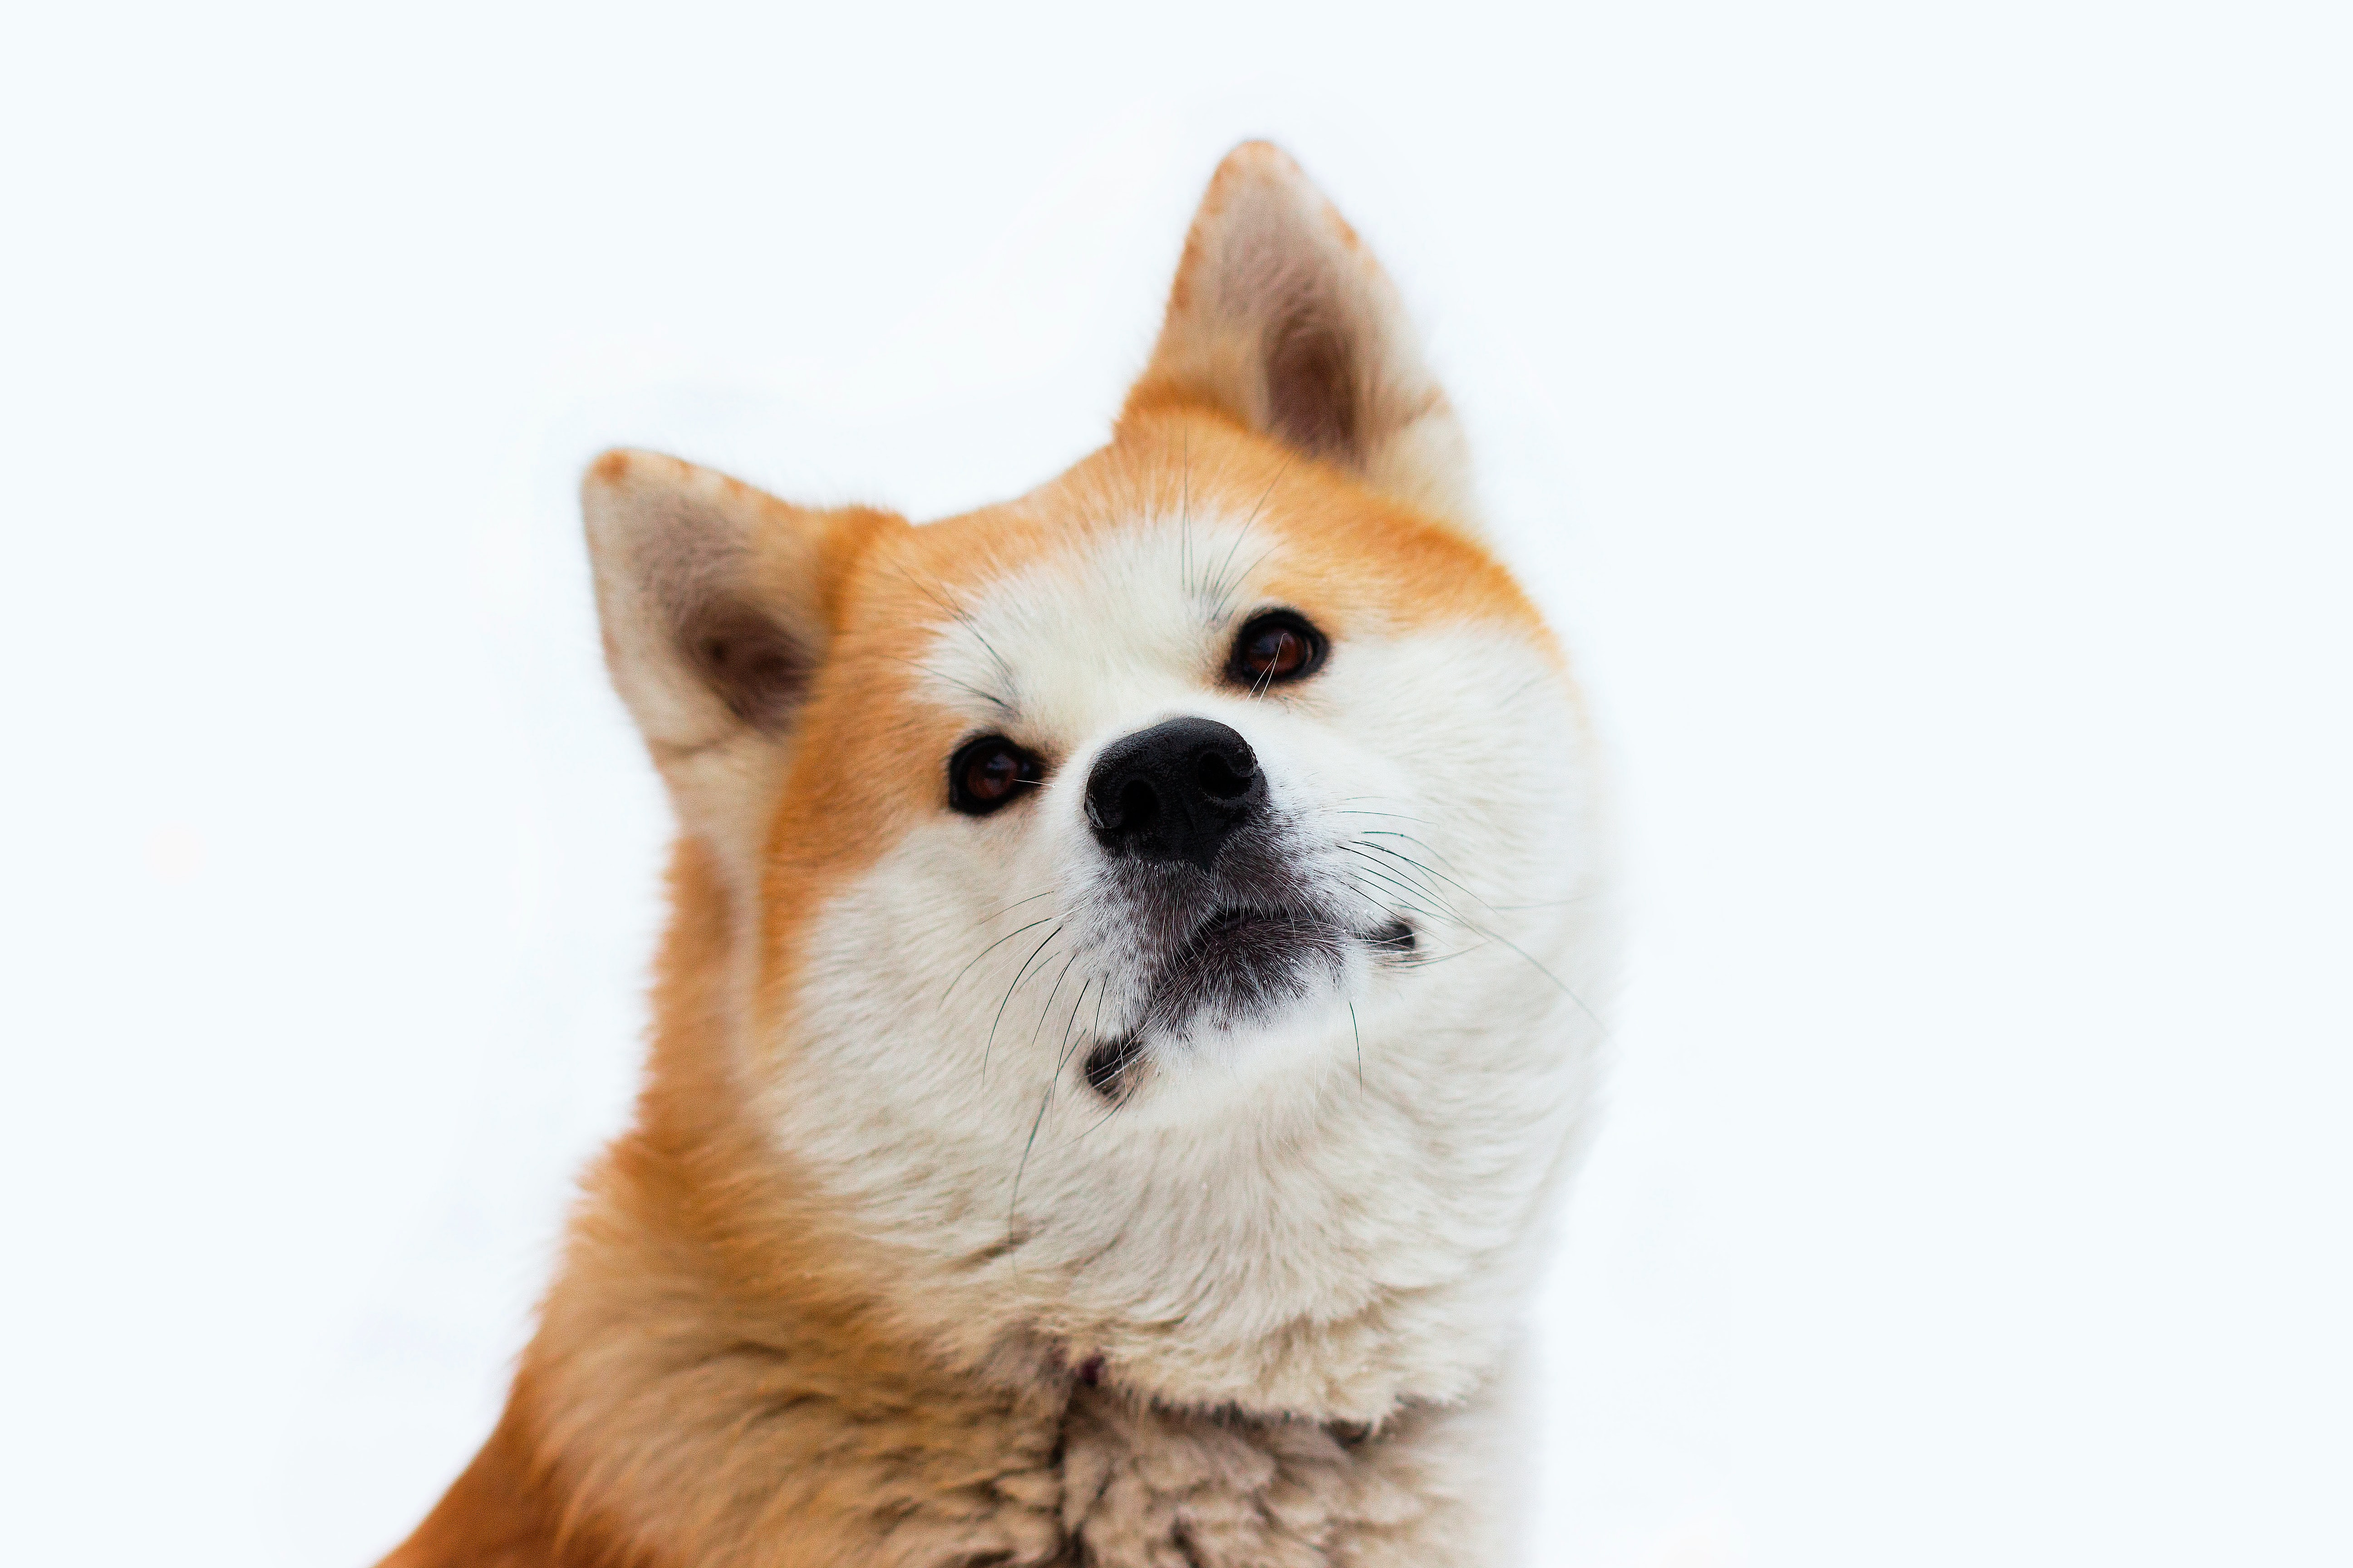
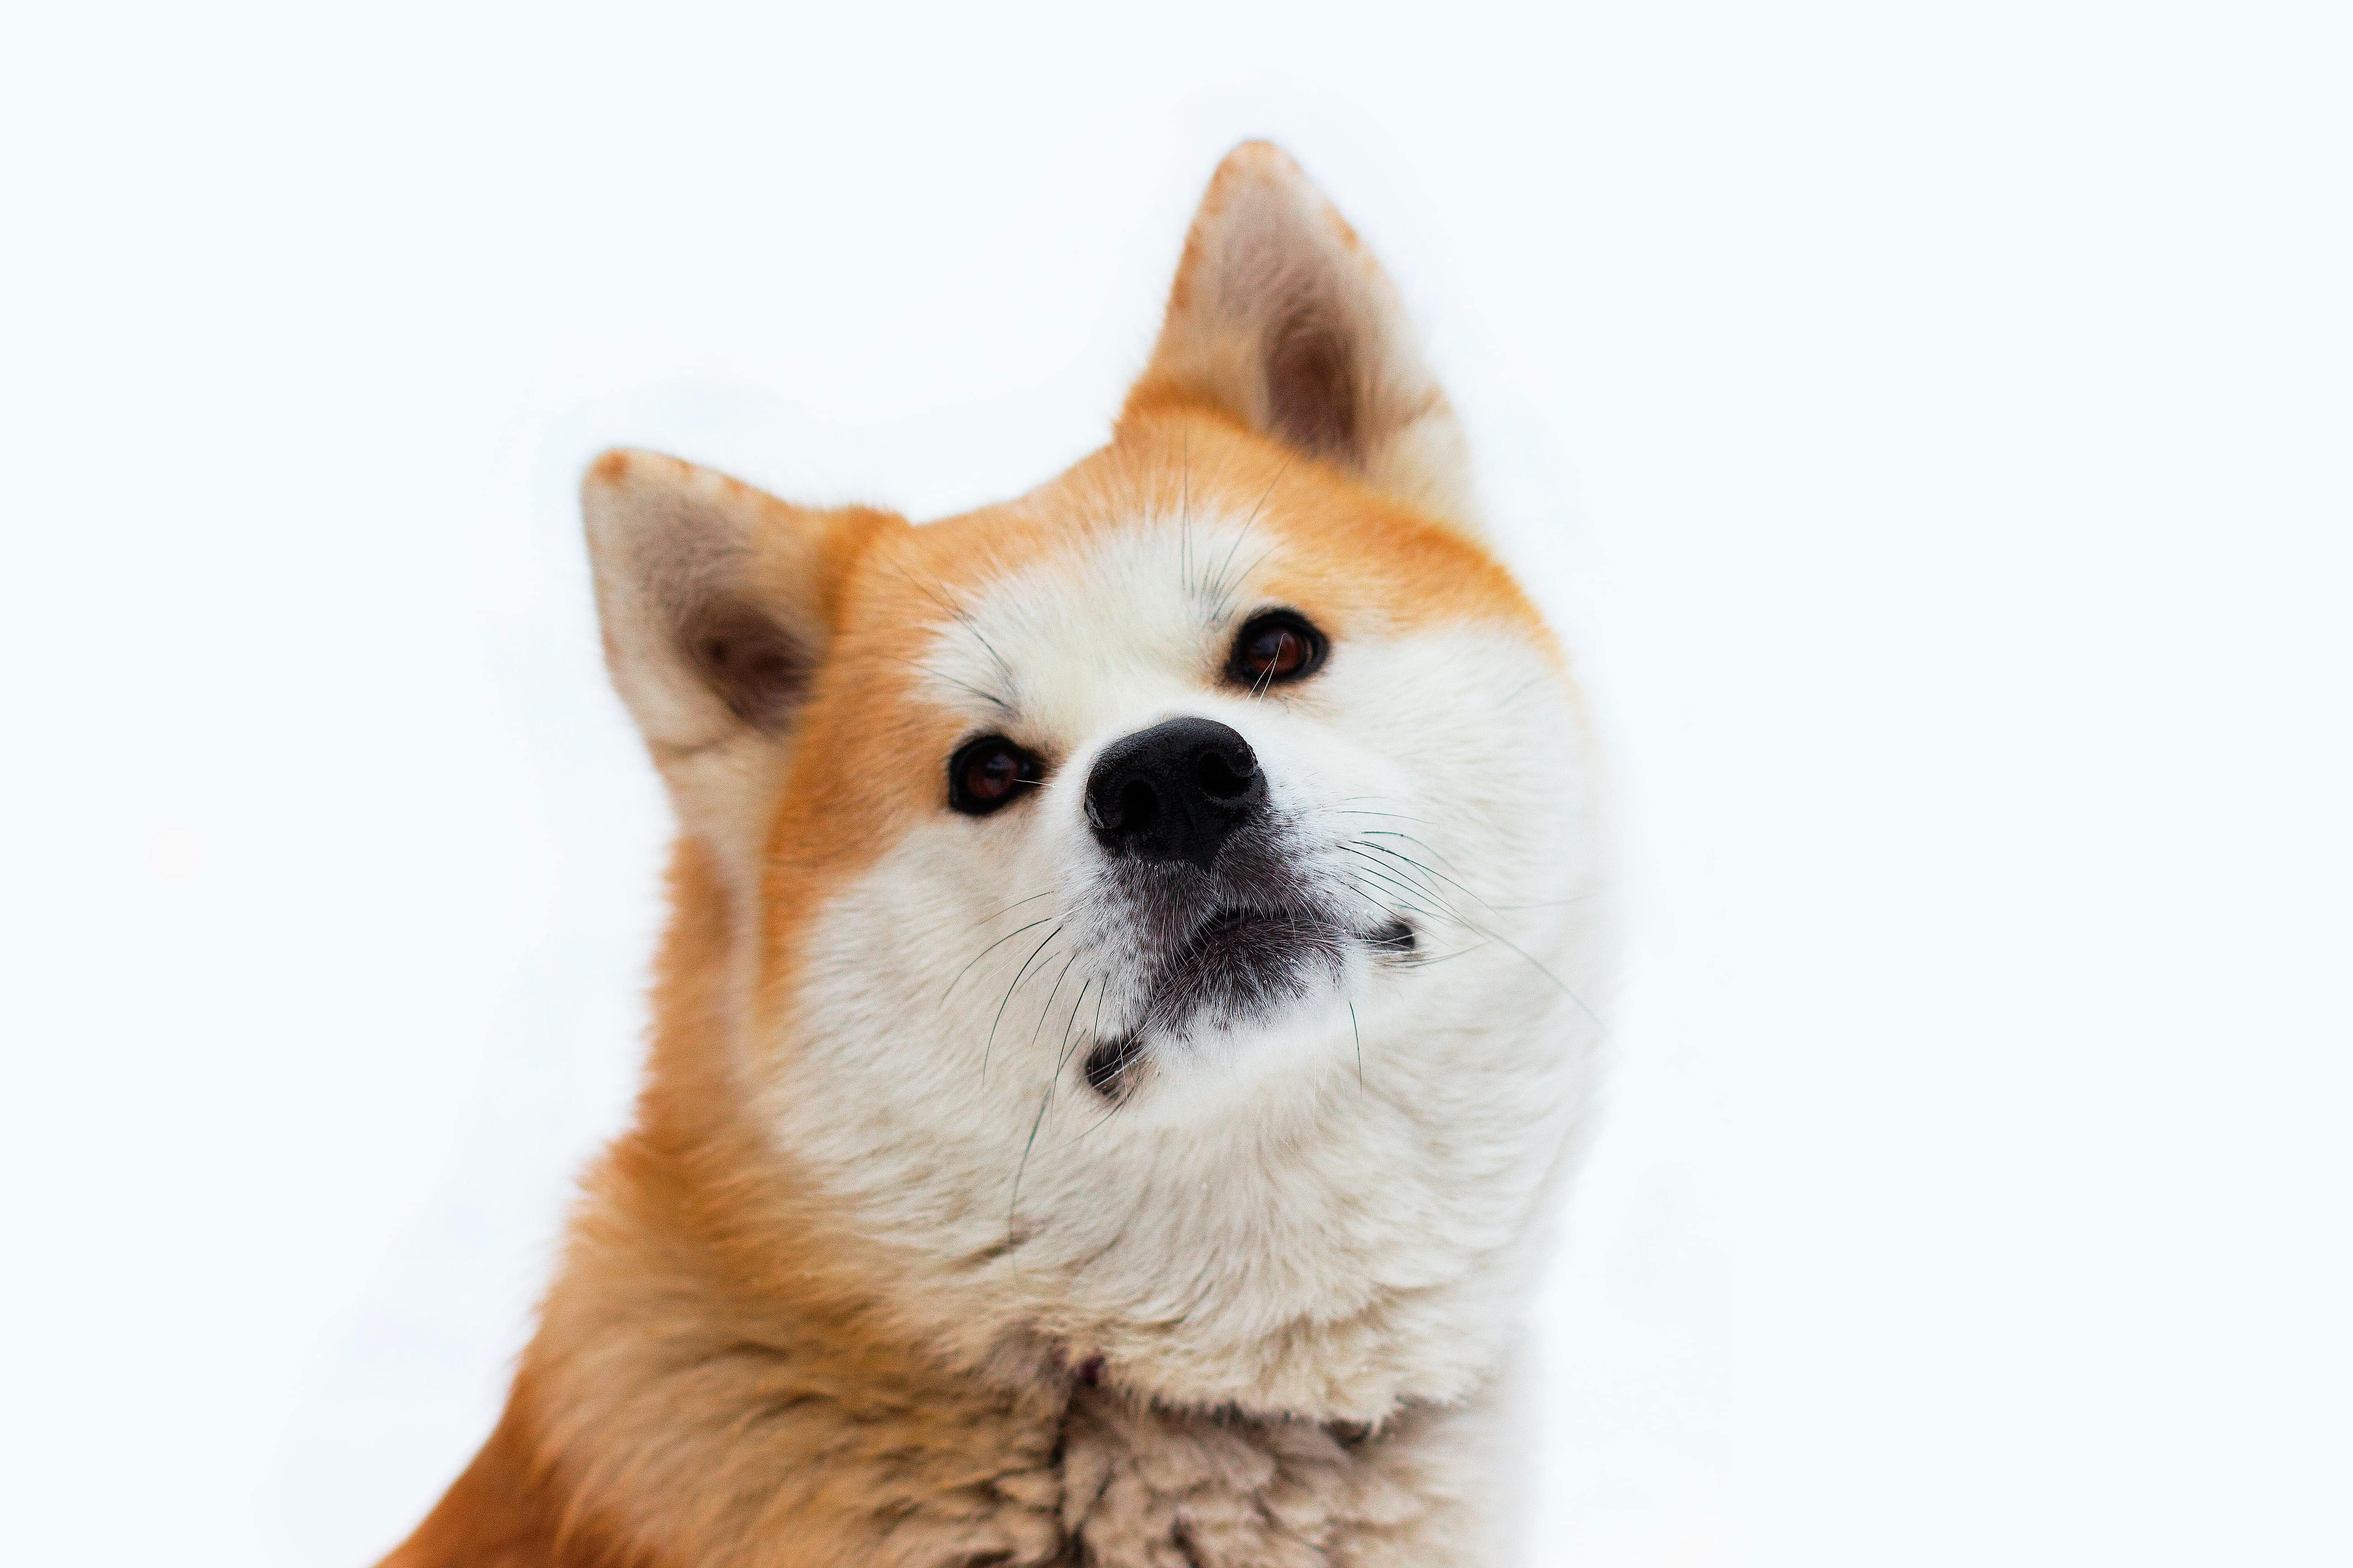
Updated README and optimized example images

diff --git a/README.md b/README.md
@@ -1,4 +1,4 @@
-<p align="center"><img src="https://i.imgur.com/RQ9yeU9.png"/></p>
+<p align="center"><img src="https://i.imgur.com/RJLgSHK.png"/></p>
 
 # Create App Icon
 
@@ -6,7 +6,9 @@ Automatically generate the required images for IOS-, Android-, Apple Watch- or w
 
 ## Requirements
 
-- Python 3.7 or above
+- Python 3.7 or greater
+- Numpy 1.19
+- Pillow 8.3
 
 ## Installation
 
@@ -19,14 +21,42 @@ $ pip3 install -r requirements.txt
 
 This script uses [Pillow](https://pillow.readthedocs.io/en/stable/handbook/image-file-formats.html) for image manipulation, meaning any image supported by the module is supported in this script.
 
-\* _remote files are only tested with png and jpg_
-
 ## How To Use
 
 Run the following command and replace 'path' with the local file path or a remote url.
 
 ```bash
 python3 main.py path
+```
+
+## Example
+
+### Normal
+
+```bash
+$ python3 main.py /images/dog.jpg
+```
+
+### Custom output folder name
+
+```bash
+$ python3 main.py /images/dog.jpg -o my-folder
+```
+
+### Only for specific device
+
+```bash
+$ python3 main.py /images/dog.jpg -i
+```
+
+\* _this creates icons only for IOS, see more flags below_
+
+### Rounded favicon
+
+This will round your favicon by 10 pixels. Change the number based on your favicon size.
+
+```bash
+$ python3 main.py /images/dog.jpg -fbr 10
 ```
 
 ## Flags
@@ -40,27 +70,27 @@ python3 main.py path
 | -i, --ios                     |  Generates ios image sizes                                  | No        |
 | -aw, --apple-watch            |  Generates Apple watch image sizes                          | No        |
 | -a, --android                 |  Generates Android image sizes                              | No        |
-| -fbr, --favicon-border-radius | Sets a border radius to the favicon                         | No        |
+| -fbr, --favicon-border-radius | Sets a border radius to the favicon, measured in pixels.    | No        |
 
 \* _by default it creates everything_
 
-## UNIX Alias
+## Alias (UNIX)
 
 This script fully supports relative paths, in other words, this script can be used from anywhere on your computer. To call this script in an easy way, add a alias (UNIX-systems) to your .bashrc or .zprofile file.
 
 ```bash
 ...
-alias createAppIcon='/path/to/main.py'
+alias cai='/path/to/main.py'
 ...
 ```
 
 Then you can call the script from anywhere with:
 
 ```bash
-$ createAppIcon image.png
+$ cai image.png
 ```
 
 ## To do
 
-- [ ] Optimize the resizing process to speed up the script
-- [ ] Use some sort of object recognition to center the "important" details in the image.
+- [ ] Add object recognition
+- [ ] Add flag for only favicon
